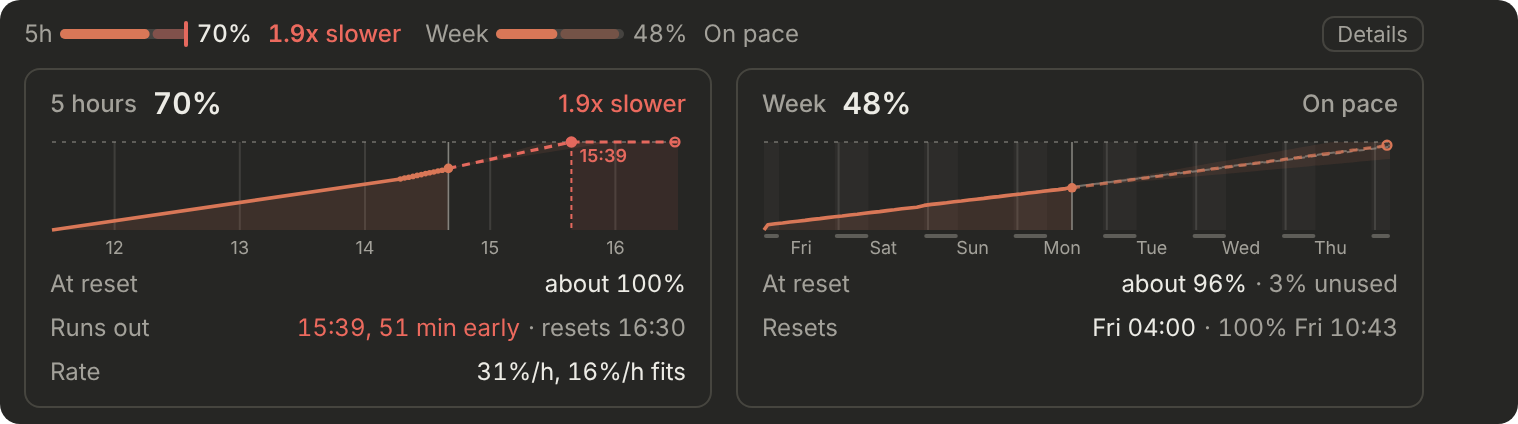
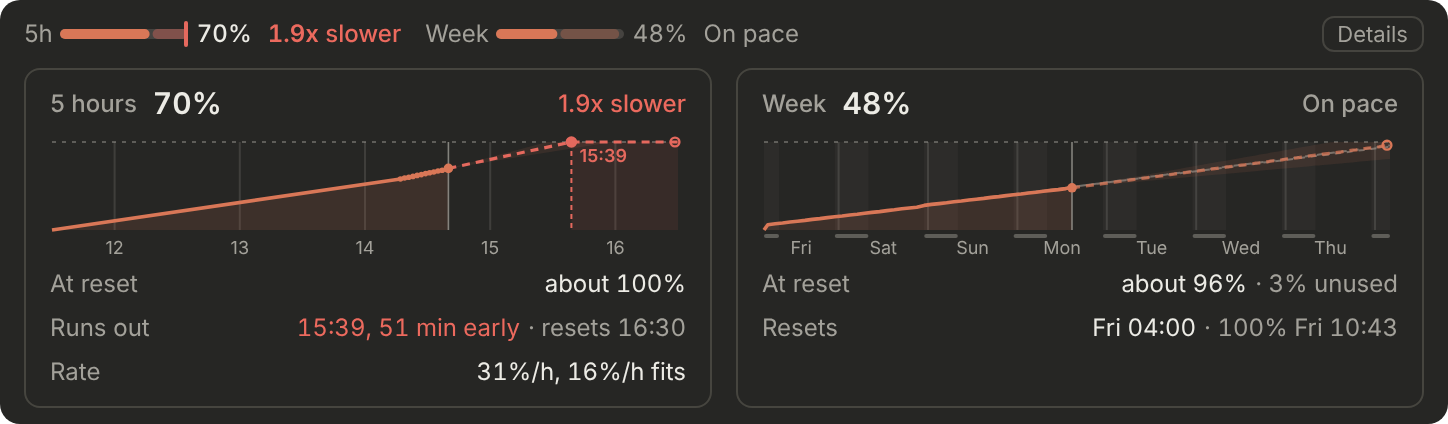
Call it pacer for Claude Code, and show the band moving
The README opens with an animation of the band above the prompt: the
pace goes from faster to on pace to slower, then Details opens. The
still picture of Details moves to the guide, trimmed of the empty column
on its right. The mod and the marketplace describe pacer the same way.

diff --git a/README.md b/README.md
@@ -1,4 +1,4 @@
-# pacer
+# pacer for Claude Code
 
 **Know if your Claude usage will last until the reset.** pacer is a small
 local monitor for Claude's two usage limits, the rolling 5-hour window and
@@ -8,8 +8,8 @@ the reset.
 
 <p align="center">
   <picture>
-    <source media="(prefers-color-scheme: dark)" srcset="docs/images/band-dark.png">
-    <img alt="pacer's band above the prompt in the Claude Desktop Code tab, Details open: a chart and a few numbers per window" src="docs/images/band-light.png" width="760">
+    <source media="(prefers-color-scheme: dark)" srcset="docs/images/band-demo-dark.gif">
+    <img alt="pacer's band above the prompt in the Claude Desktop Code tab: the pace changes from 2.1x faster to on pace to 1.9x slower, then Details opens with a chart and a few numbers per window" src="docs/images/band-demo-light.gif" width="760">
   </picture>
 </p>
 

diff --git a/docs/guide.md b/docs/guide.md
@@ -4,6 +4,13 @@ What the band, its Details, the charts, the macOS menu bar and the terminal
 line say, and how to keep them fresh. [How it works](how-it-works.md) has the
 math behind each number.
 
+<p align="center">
+  <picture>
+    <source media="(prefers-color-scheme: dark)" srcset="images/band-dark.png">
+    <img alt="pacer's band above the prompt in the Claude Desktop Code tab, Details open: a chart and a few numbers per window" src="images/band-light.png" width="760">
+  </picture>
+</p>
+
 ## The band
 
 One row per window: its name, a small bar, the percent, and its pace.
